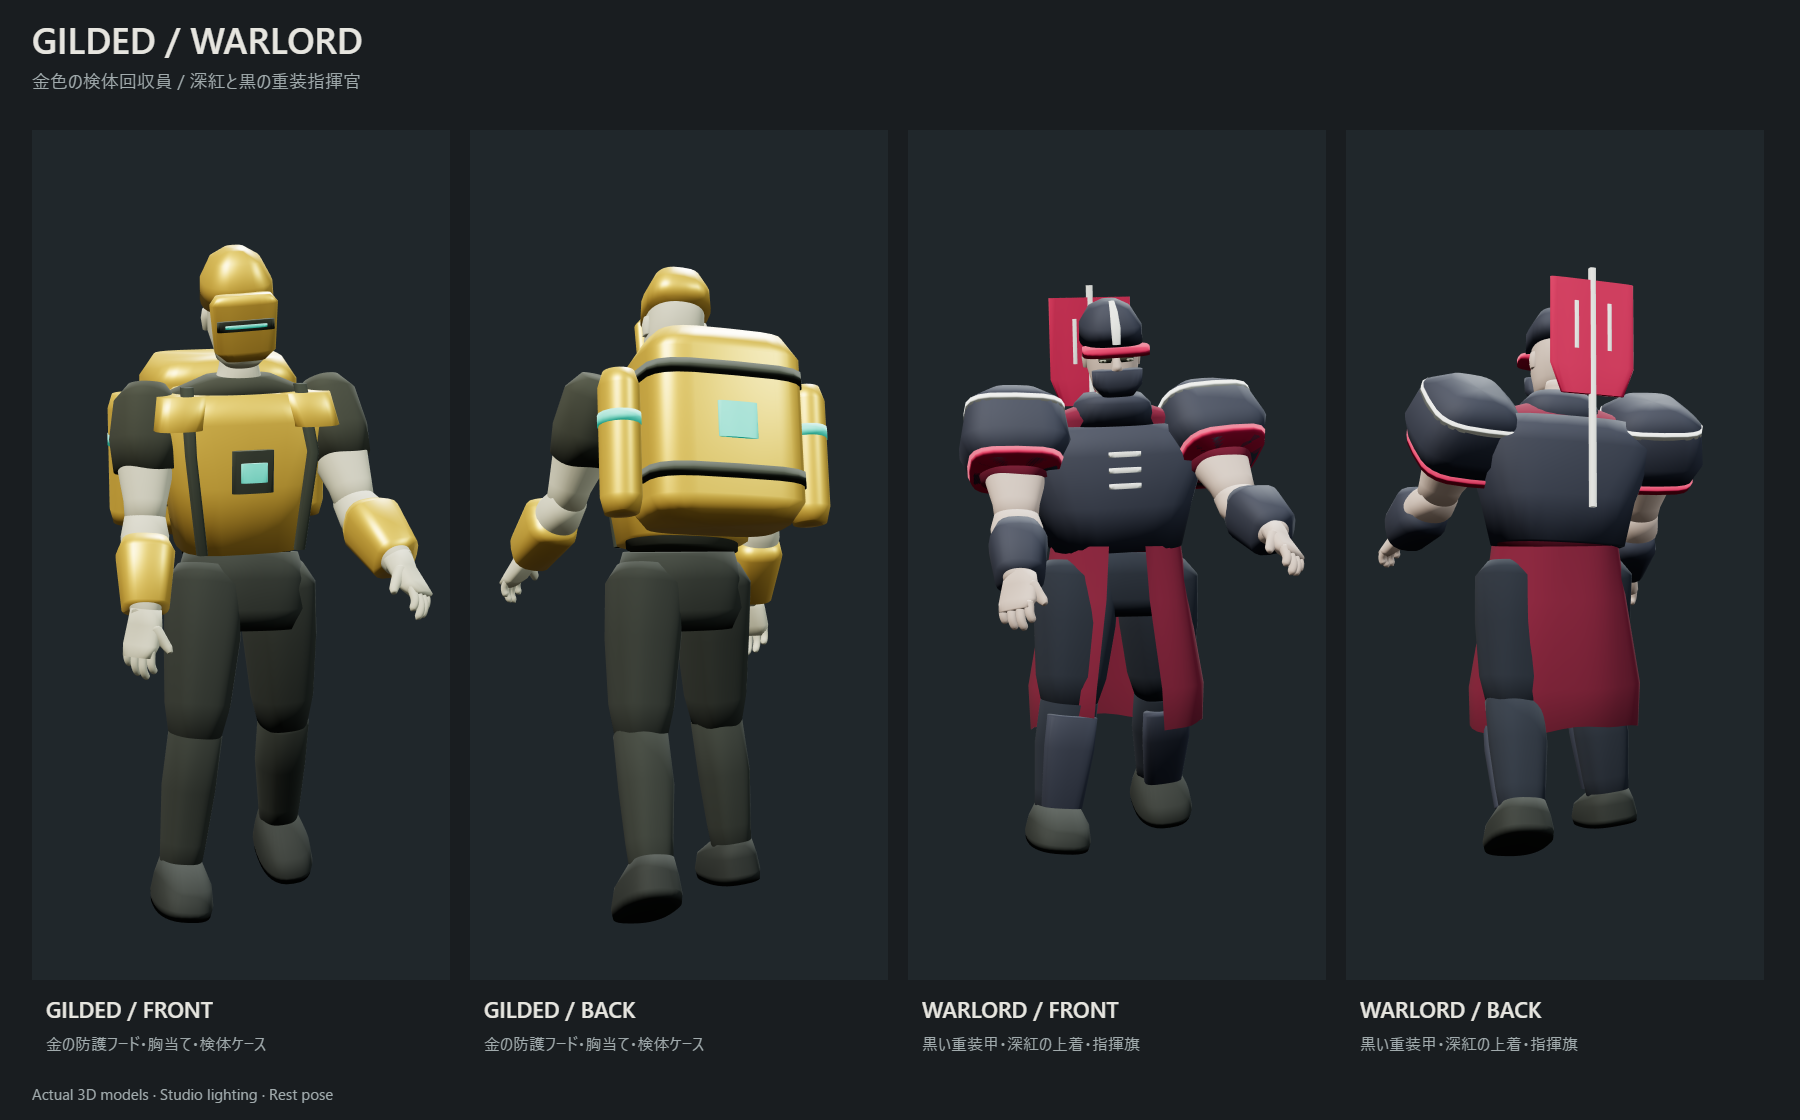
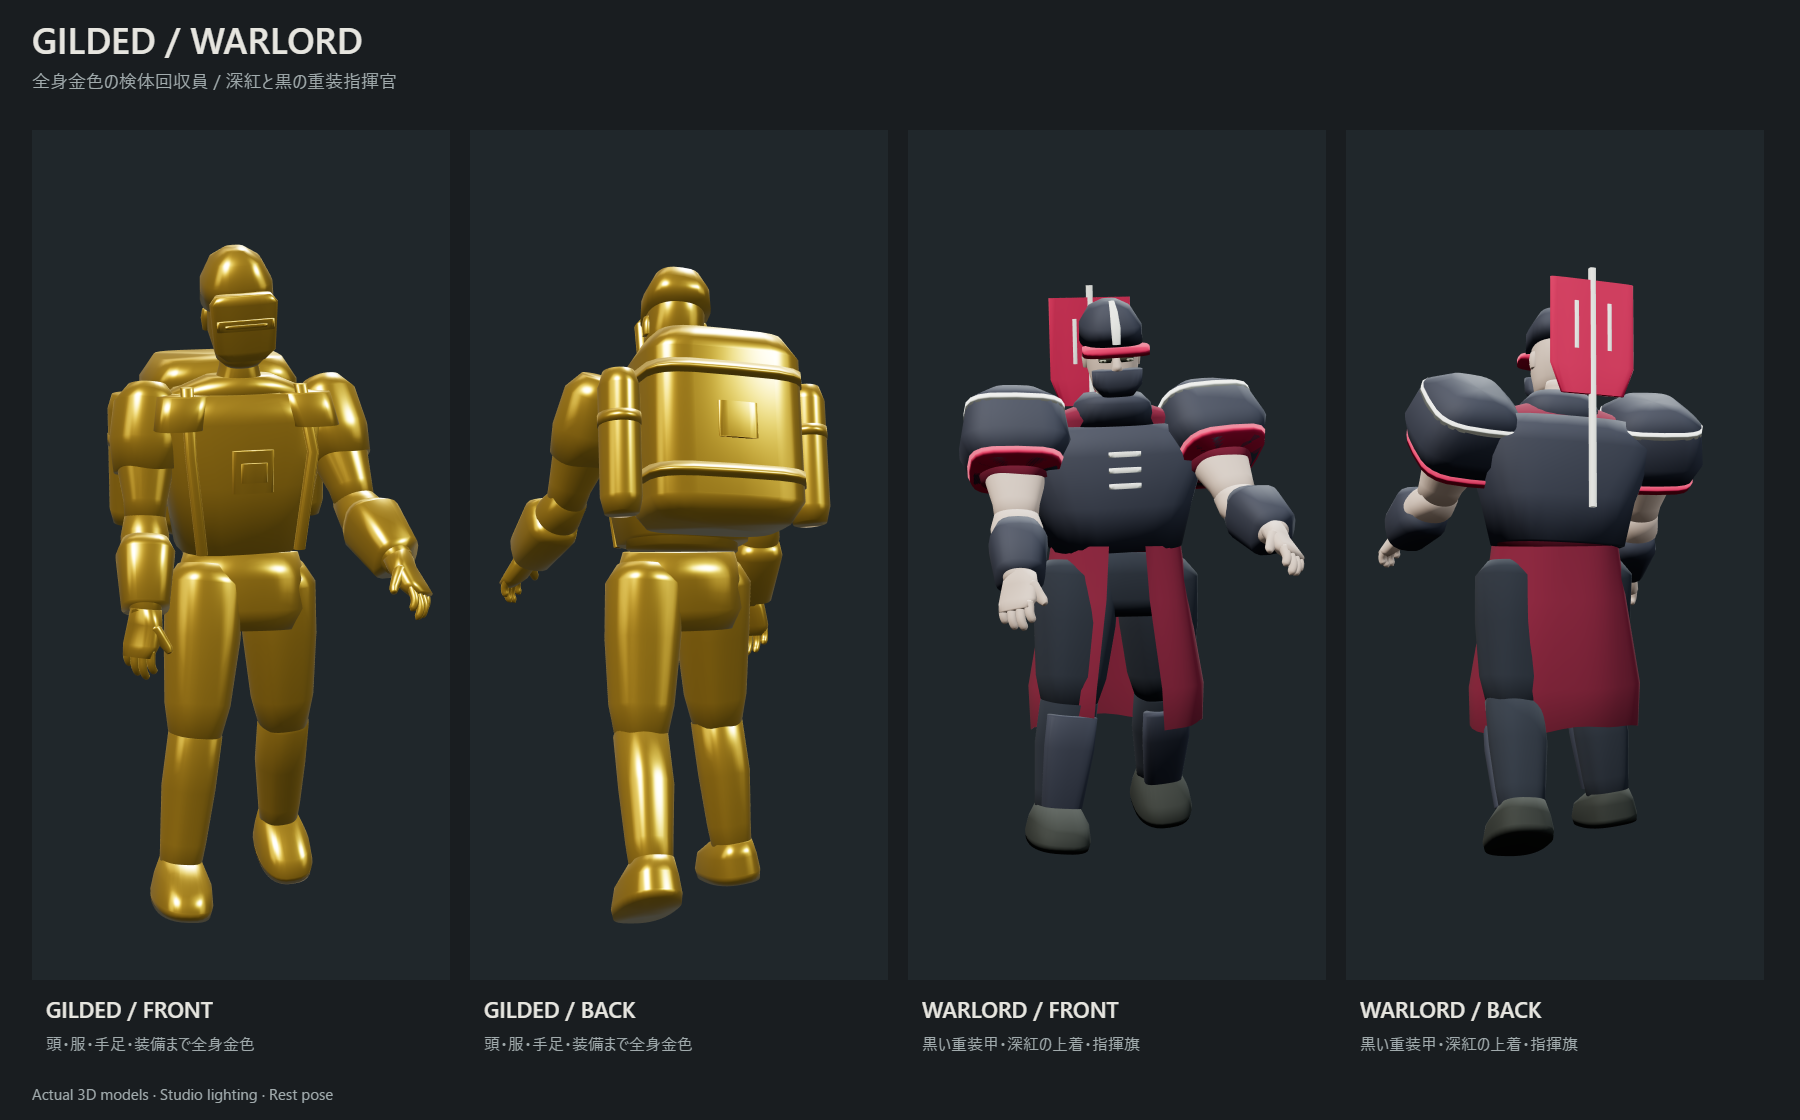
Make gilded entirely polished gold

diff --git a/client/previews/gilded-warlord.html b/client/previews/gilded-warlord.html
@@ -2,12 +2,12 @@
 <script src="../vendor/three.min.js"></script><script src="../organic-enemy-models.js"></script><script>
 'use strict';
 const T=THREE,sheet=document.querySelector('#sheet');sheet.width=1800;sheet.height=1120;const ctx=sheet.getContext('2d');ctx.fillStyle='#191d20';ctx.fillRect(0,0,1800,1120);
-ctx.fillStyle='#e6e5df';ctx.font='500 36px system-ui';ctx.fillText('GILDED / WARLORD',32,54);ctx.fillStyle='#a1abad';ctx.font='18px system-ui';ctx.fillText('金色の検体回収員 / 深紅と黒の重装指揮官',32,88);
+ctx.fillStyle='#e6e5df';ctx.font='500 36px system-ui';ctx.fillText('GILDED / WARLORD',32,54);ctx.fillStyle='#a1abad';ctx.font='18px system-ui';ctx.fillText('全身金色の検体回収員 / 深紅と黒の重装指揮官',32,88);
 const r=new T.WebGLRenderer({antialias:true,preserveDrawingBuffer:true});r.setPixelRatio(2);r.setSize(418,850);r.outputEncoding=T.sRGBEncoding;r.toneMapping=T.ACESFilmicToneMapping;r.toneMappingExposure=1;
 const studio=new T.Scene();studio.background=new T.Color('#535e66').convertSRGBToLinear();for(const [x,y,z,w,h,color]of [[-3,3,2,2,5,'#e3e9e6'],[3,2,1,2,4,'#9aaeb7'],[0,4,-3,4,2,'#f4e7d1']]){const p=new T.Mesh(new T.PlaneGeometry(w,h),new T.MeshBasicMaterial({color,side:T.DoubleSide}));p.position.set(x,y,z);p.lookAt(0,1,0);studio.add(p);}const pmrem=new T.PMREMGenerator(r),env=pmrem.fromScene(studio,.12);
 for(const [i,id,angle,label]of [[0,'lab-gilded',.25,'GILDED / FRONT'],[1,'lab-gilded',Math.PI+.38,'GILDED / BACK'],[2,'lab-warlord',.25,'WARLORD / FRONT'],[3,'lab-warlord',Math.PI+.38,'WARLORD / BACK']]){
  const s=new T.Scene();s.background=new T.Color('#20272b');s.environment=env.texture;s.add(new T.HemisphereLight('#c5d5dd','#33302b',.72));for(const [x,y,z,intensity,color]of [[-3,6,5,1.7,'#f4ecdb'],[4,3,2,.55,'#bad5e4'],[1,4,-4,1.3,'#d2e2df']]){const l=new T.DirectionalLight(color,intensity);l.position.set(x,y,z);s.add(l);}
- const m=buildOrganicEnemy(T,id);m.reset();m.root.rotation.y=angle;s.add(m.root);const camera=new T.PerspectiveCamera(32,418/850,.05,40);camera.position.set(0,1.08,id==='lab-warlord'?4.8:3.95);camera.lookAt(0,.94,0);r.render(s,camera);const x=32+i*438;ctx.drawImage(r.domElement,x,130,418,850);ctx.fillStyle='#e6e5df';ctx.font='500 22px system-ui';ctx.fillText(label,x+14,1018);ctx.fillStyle='#a1abad';ctx.font='16px system-ui';ctx.fillText(id==='lab-gilded'?'金の防護フード・胸当て・検体ケース':'黒い重装甲・深紅の上着・指揮旗',x+14,1050);m.dispose();
+ const m=buildOrganicEnemy(T,id);m.reset();m.root.rotation.y=angle;s.add(m.root);const camera=new T.PerspectiveCamera(32,418/850,.05,40);camera.position.set(0,1.08,id==='lab-warlord'?4.8:3.95);camera.lookAt(0,.94,0);r.render(s,camera);const x=32+i*438;ctx.drawImage(r.domElement,x,130,418,850);ctx.fillStyle='#e6e5df';ctx.font='500 22px system-ui';ctx.fillText(label,x+14,1018);ctx.fillStyle='#a1abad';ctx.font='16px system-ui';ctx.fillText(id==='lab-gilded'?'頭・服・手足・装備まで全身金色':'黒い重装甲・深紅の上着・指揮旗',x+14,1050);m.dispose();
 }
 ctx.fillStyle='#a1abad';ctx.font='15px system-ui';ctx.fillText('Actual 3D models · Studio lighting · Rest pose',32,1100);r.dispose();env.dispose();pmrem.dispose();
 document.querySelector('#save').onclick=()=>sheet.toBlob(blob=>{const url=URL.createObjectURL(blob),a=document.createElement('a');a.href=url;a.download='gilded-warlord.png';a.click();setTimeout(()=>URL.revokeObjectURL(url),1000);});

diff --git a/client/organic-enemy-models.js b/client/organic-enemy-models.js
@@ -157,8 +157,8 @@ if(lab){
   for(const side of ['L','R'])root.getObjectByName('Hand_'+side).scale.setScalar(1.35);
  }
  if(id==='lab-gilded') {
-  const gold=mat('Tarnished brass','#d6ab45',.42),strap=mat('Specimen straps','#34382f',.95),seal=mat('Sealed specimen jade','#3dbaa1',.64);
-  gold.metalness=.55;
+  const gold=mat('Tarnished brass','#f5bf3e',.20),strap=mat('Specimen straps','#34382f',.95),seal=mat('Sealed specimen jade','#3dbaa1',.64);
+  gold.metalness=.9;gold.envMapIntensity=.8;
   seal.emissive.copy(seal.color);seal.emissiveIntensity=.32;
   loft(torso,'Gold specimen vest',[[.02,.34,.25],[.20,.40,.28],[.36,.48,.28,-.025],[.43,.34,.23,-.02]],gold,3.2,24);
   // A gold protective hood and dark horizontal visor replace the shared bare scalp.
@@ -621,5 +621,7 @@ if(lab){
  }
  function pose(seconds,walking=true,travel){advance(seconds,walking,travel);applyPose();}
  function dispose(){owned.forEach(g=>g.dispose());materials.forEach(m=>m.dispose());}
+ // Apply after shared anatomy corrections so neck, flesh, cloth, boots and gear are all gold.
+ if(id==='lab-gilded'){const gold=root.getObjectByName('Gold specimen vest').material;root.traverse(o=>{if(o.isMesh)o.material=gold;});}
  if(id==='hollow')root.scale.y=1.055;if(id==='lab-ghost'){root.scale.y=1.07;root.traverse(o=>{if(o.isMesh)o.castShadow=o.receiveShadow=false;});}if(id==='lab-seeker')root.scale.y=1.065;if(id==='lab-champion')root.scale.y=1.045;if(id==='lab-assistant')root.scale.y=.95;if(id==='lab-pathologist')root.scale.y=1.065;reset();return {root,head,torso,arms,legs,pose,advance,applyPose,reset,dispose,id,getMotion:()=>[previous,phase,blend],setMotion:state=>{[previous,phase,blend]=state;}};
 };

diff --git a/docs/enemy-models.md b/docs/enemy-models.md
@@ -1,6 +1,6 @@
 # Enemy form studies
 
-GILDED / WARLORD recognition revision: GILDED now wears a gold protective hood, a sealed face shield with a jade visor, a metal chest shell and forearm guards. Its large reinforced gold specimen strongbox and side canisters carry matching jade seals. WARLORD has graphite armor over crimson cloth, an officer helmet/jaw guard, wider angular pauldrons with pale rank trim, shin armor and a torso-mounted crimson command standard visible above the shoulders. Geometry is 11,936 / 12,644 triangles respectively; animation, resource pooling, freeze/tint, combat and collision rules retain their existing paths. Model/export, runtime, renderer and animation suites pass. [Front/back image](previews/gilded-warlord.png); regenerate with `client/previews/gilded-warlord.html`. Studio images frame each silhouette independently rather than comparing gameplay scale.
+GILDED / WARLORD recognition revision: GILDED is polished gold over its entire body: hood, face, neck, exposed skin, clothing, hands, legs, boots, chest shell, guards, strongbox and canisters. All 62 meshes share one gold material (metalness 0.9, roughness 0.2); the former jade/black details are gold as well. WARLORD has graphite armor over crimson cloth, an officer helmet/jaw guard, wider angular pauldrons with pale rank trim, shin armor and a torso-mounted crimson command standard visible above the shoulders. Geometry is 11,936 / 12,644 triangles respectively; animation, resource pooling, freeze/tint, combat and collision rules retain their existing paths. Model/export, runtime, renderer and animation suites pass. [Front/back image](previews/gilded-warlord.png); regenerate with `client/previews/gilded-warlord.html`. Studio images frame each silhouette independently rather than comparing gameplay scale.
 
 The live renderer now uses `lab-enemy-models.js`: GRUNT → researcher, RUNNER → lab-runner, BRUTE → lab-brute, POISONER → lab-poisoner. The studio opens the new three enemy roles; 白衣3案 retains all three coat variations. Earlier preview-only notes below describe the preceding iterations.
 
